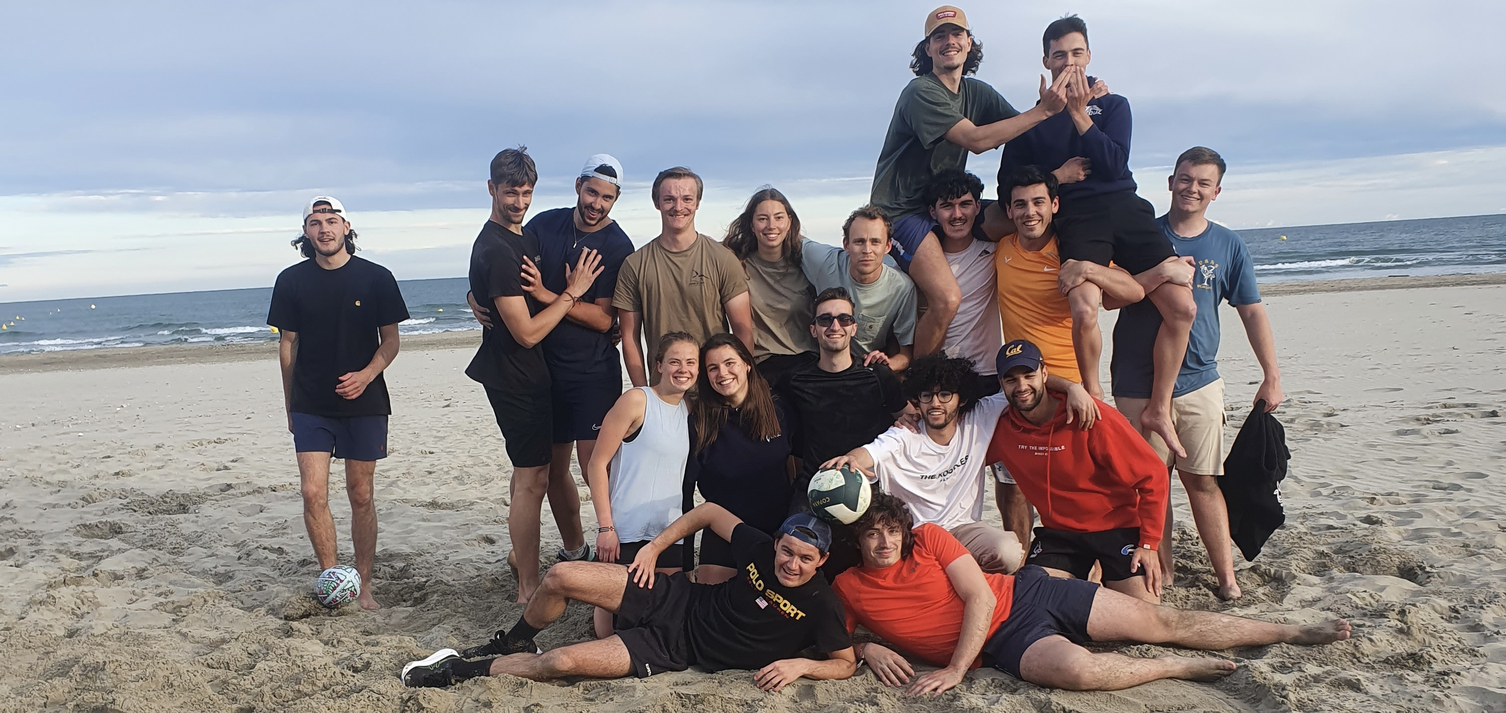
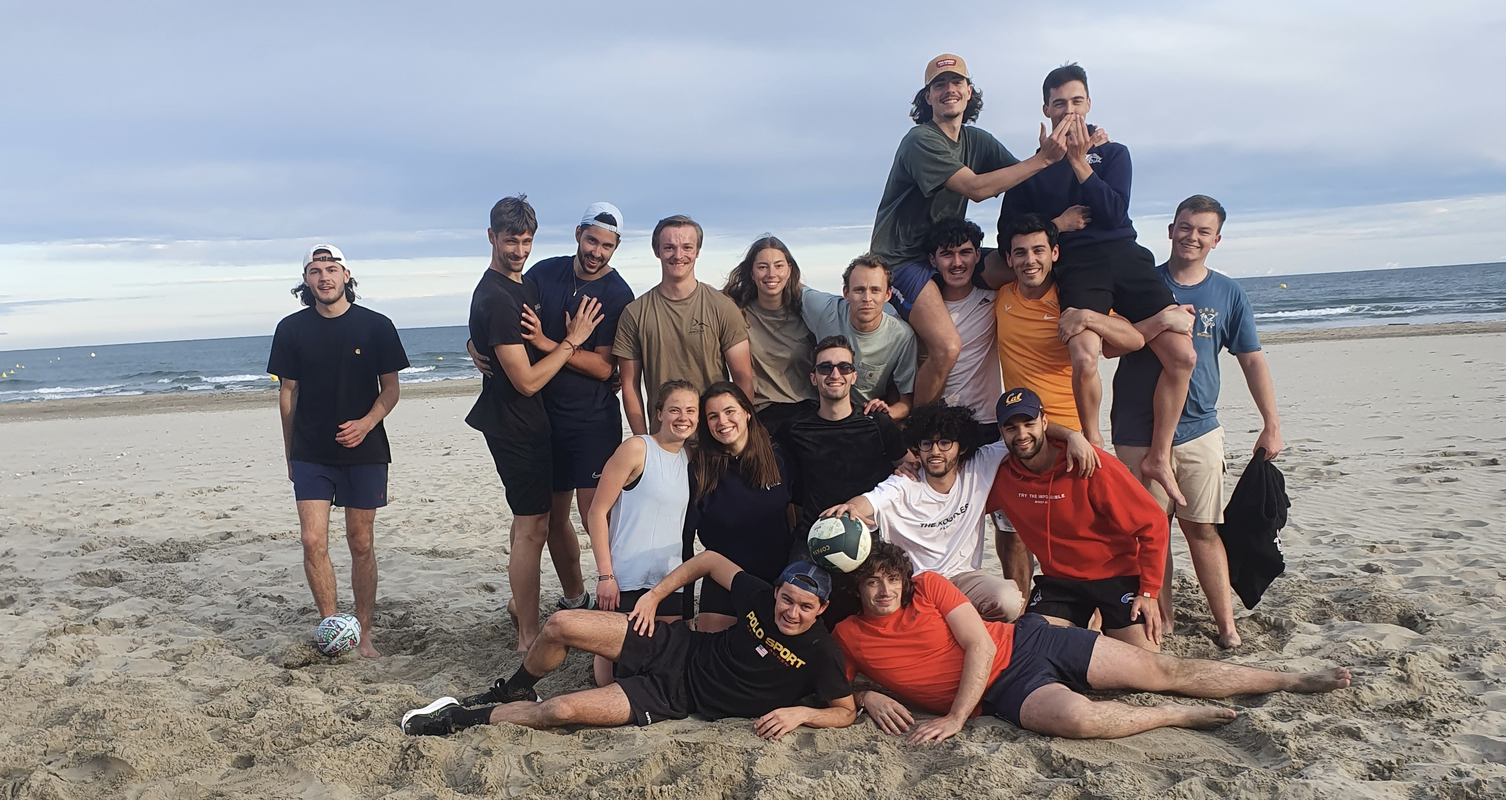
ajout lien bootstrap dans head pour carousel + ajout d'une fonction dans main pour avoir les images de même taille

diff --git a/templates/head.html b/templates/head.html
@@ -5,6 +5,7 @@
     <link href="https://cdn.jsdelivr.net/npm/bootstrap@5.3.3/dist/css/bootstrap.min.css" rel="stylesheet"
         integrity="sha384-QWTKZyjpPEjISv5WaRU9OFeRpok6YctnYmDr5pNlyT2bRjXh0JMhjY6hW+ALEwIH" crossorigin="anonymous">
     <link rel="stylesheet" type="text/css" href="{{ url_for('static', filename='main.css')}}">
+    <link href="https://stackpath.bootstrapcdn.com/bootstrap/5.1.3/css/bootstrap.min.css" rel="stylesheet">
     <script src="https://cdn.jsdelivr.net/npm/bootstrap@5.3.3/dist/js/bootstrap.bundle.min.js"
         integrity="sha384-YvpcrYf0tY3lHB60NNkmXc5s9fDVZLESaAA55NDzOxhy9GkcIdslK1eN7N6jIeHz"
         crossorigin="anonymous"></script>

diff --git a/static/main.css b/static/main.css
@@ -17,3 +17,9 @@ body, html {
     width: 100%;
     height: 100%;
 }
+
+.carousel-inner img {
+    width: 100%;
+    height: 600px; /* Ajustez cette valeur selon vos besoins */
+    object-fit: cover; /* Assure que l'image couvre toute la zone définie sans distorsion */
+  }
